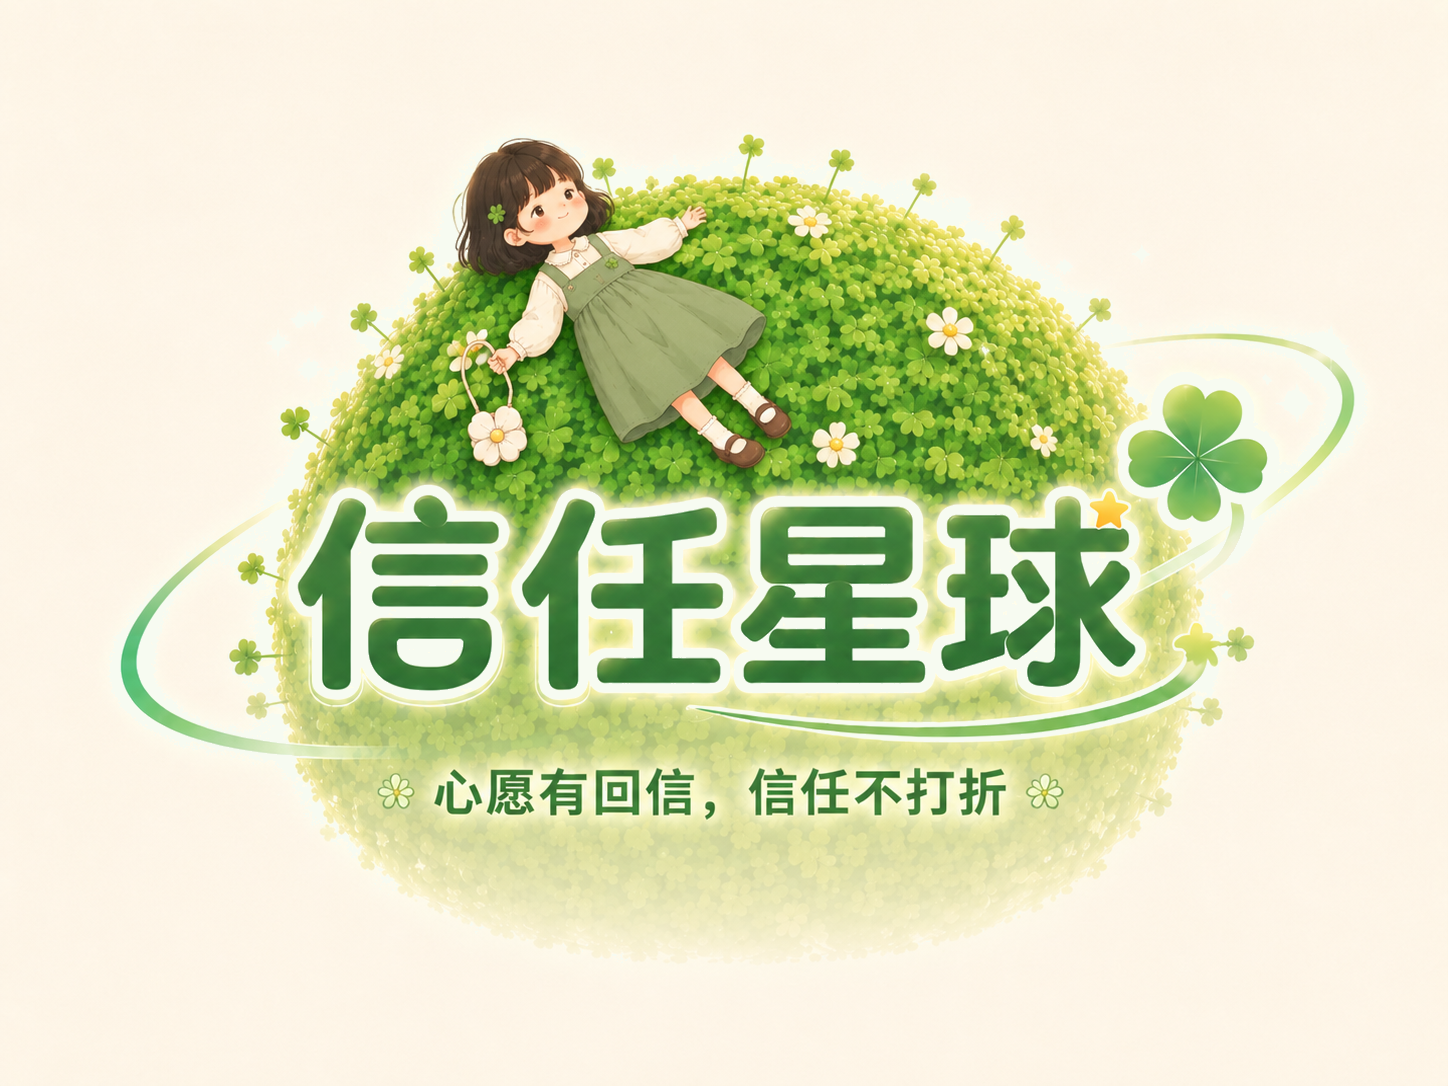
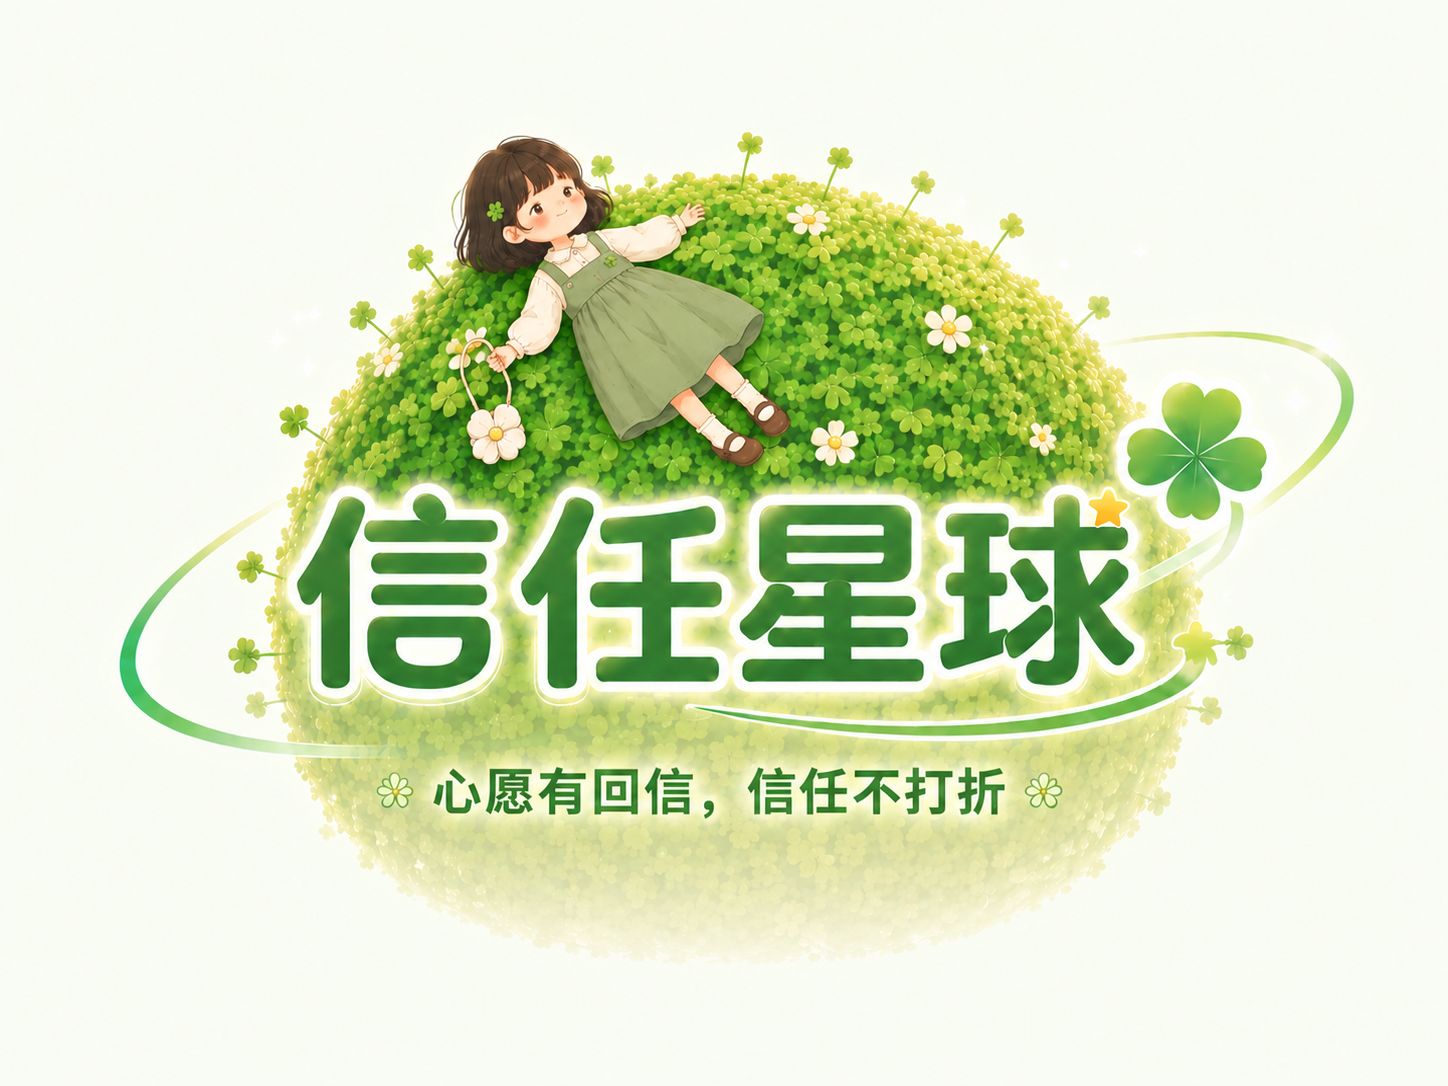
feat: 标题图更新+布局比例调整(2:1)+视频尺寸优化

diff --git a/electronic-pinky-promise.html b/electronic-pinky-promise.html
@@ -1280,8 +1280,9 @@ body { min-height: 100vh; padding-bottom: var(--nav-height); }
 }
 /* 雁小约欢迎动画视频 - 背景融合 */
 .mascot-welcome-video-wrapper {
-  width: 240px; height: 240px;
-  flex-shrink: 0;
+  flex: 1;
+  max-width: 160px;
+  height: 160px;
   border-radius: 50%;
   overflow: hidden;
   position: relative;
@@ -1302,17 +1303,18 @@ body { min-height: 100vh; padding-bottom: var(--nav-height); }
   margin-bottom: 8px;
 }
 .onboard-hero-text {
+  flex: 2;
   text-align: center;
-  flex-shrink: 0;
 }
+
 .title-banner-img {
-  height: 200px;
-  width: auto;
-  max-width: 160px;
+  width: 100%;
+  height: auto;
+  max-height: 220px;
   display: block;
   margin: 0 auto;
   border-radius: 16px;
-  box-shadow: 0 4px 16px rgba(0,0,0,0.08);
+  object-fit: contain;
 }
 .mascot-success-img {
   width: 80px; height: 80px;